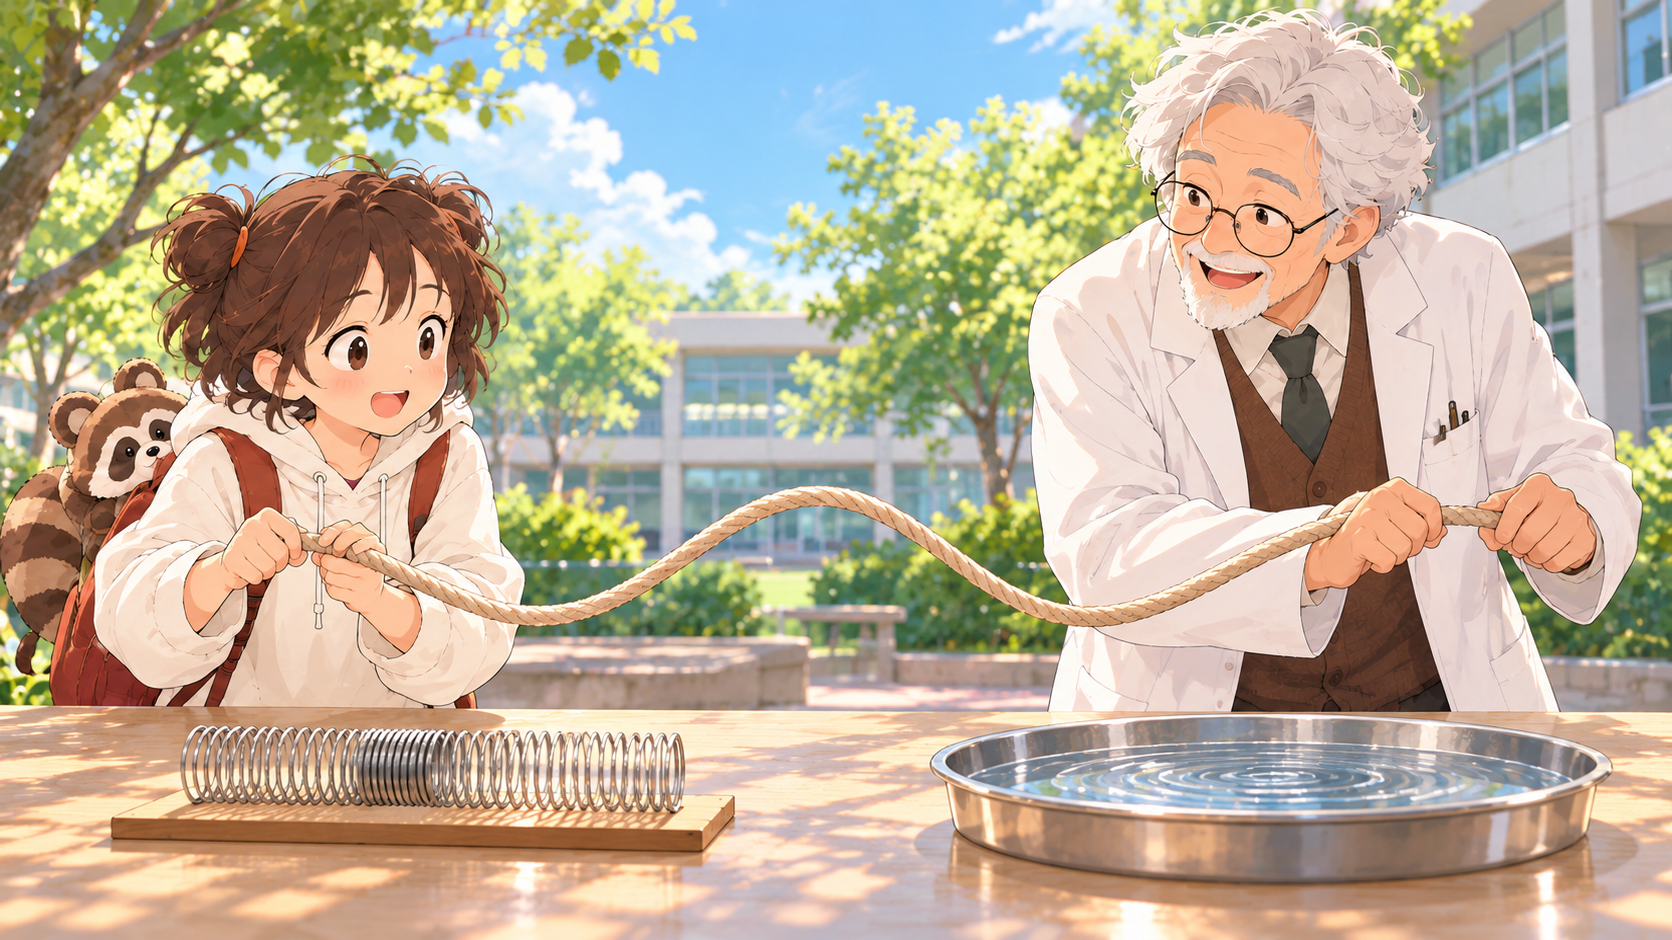
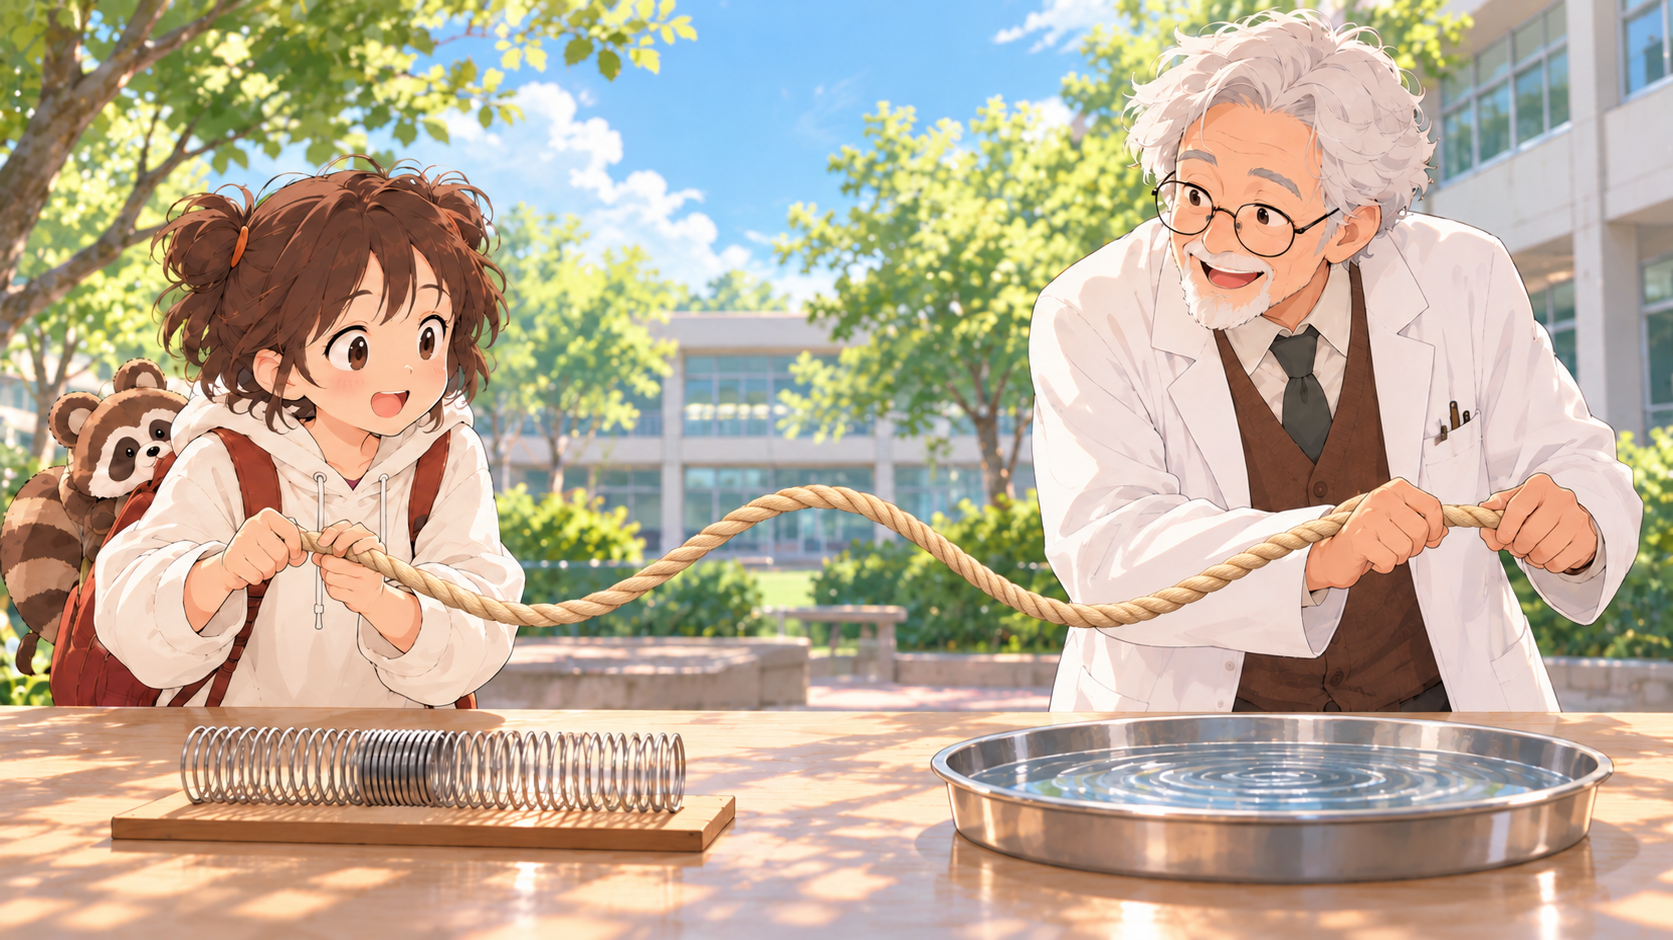
Match story rope material to wave diagrams

diff --git a/units/2/parts/2.1/assets/README.md b/units/2/parts/2.1/assets/README.md
@@ -2,5 +2,5 @@
 
 - `dialogue-character-avatars.png` 沿用 3.1／3.2 頁面的小葵與阿公頭像，顯示九段學習內容中的對話。
 - 頭像圖由本專案既有的 `parts/3.1/assets/dialogue-character-avatars.png` 共用；左半為小葵，右半為阿公。頁面以 CSS 裁切對應半幅。
-- `wave-story-opening-outdoor.png` 為 2.1 標題區的開場情境圖，呈現戶外繩波觀察，並以彈簧和水面漣漪作為輔助線索。
-- `wave-rope-texture.png` 是共用編織繩的原始素材；`wave-rope-strip.png` 只裁掉外緣，完整保留棕褐色繩股，用於三張繩波圖。
+- `wave-story-opening-outdoor.png` 為 2.1 標題區的開場情境圖；手持繩已調整為與繩波圖相同的蜜棕色編織材質。
+- `wave-rope-texture.png` 是共用編織繩的原始素材；`wave-rope-strip.png` 裁掉外緣、保留完整棕褐色繩股，並以同一素材繪製三張繩波示意圖。
